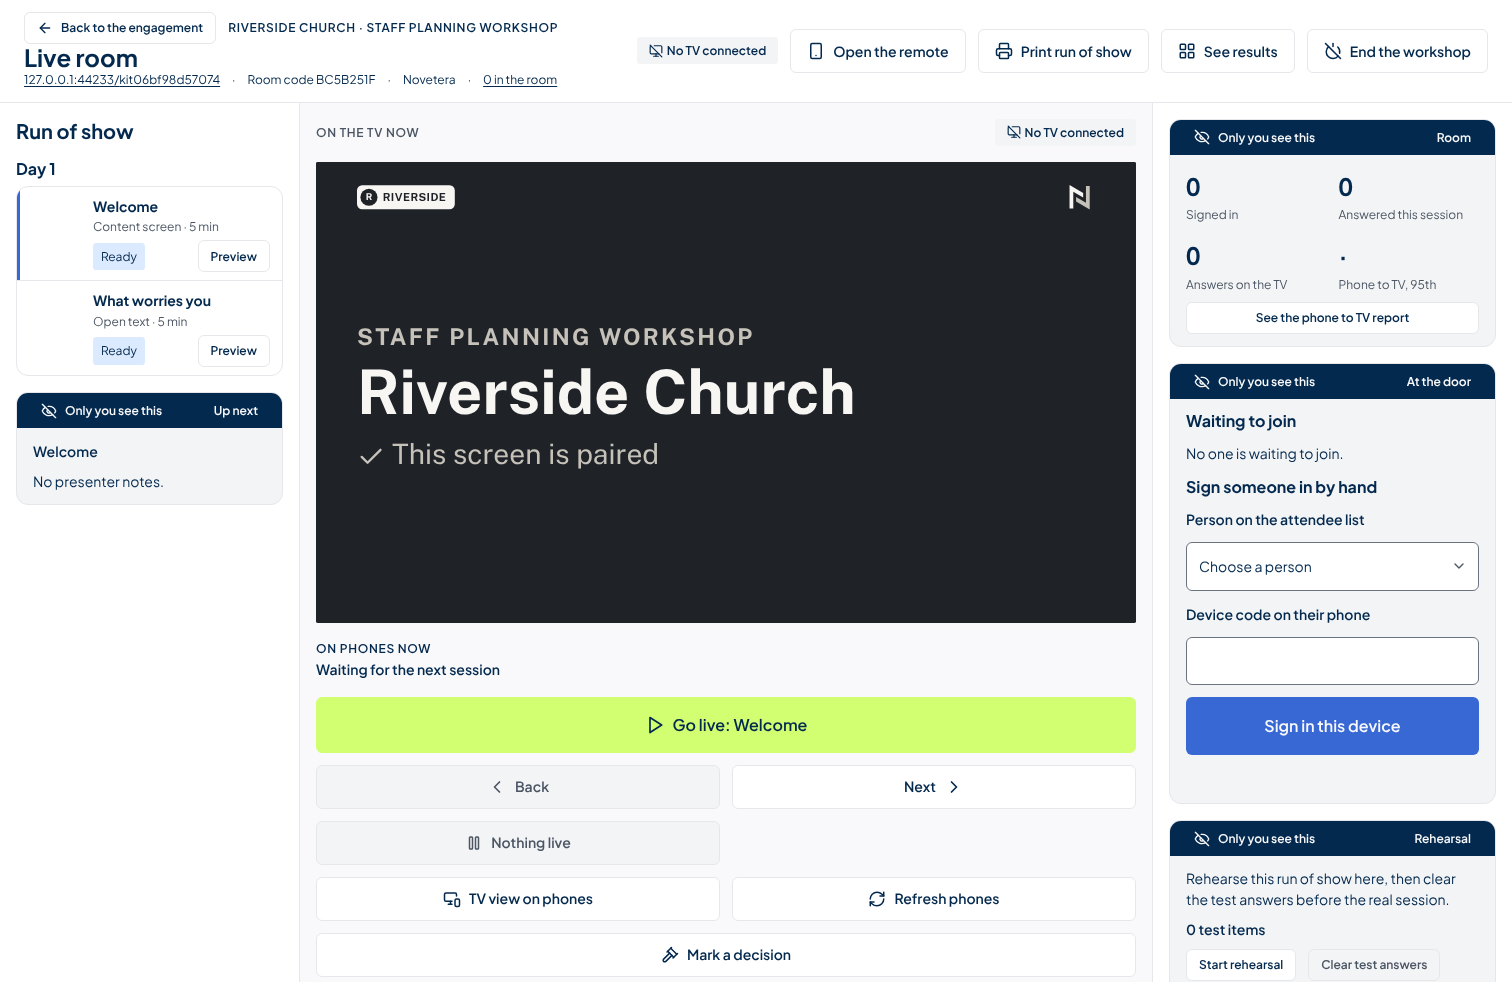
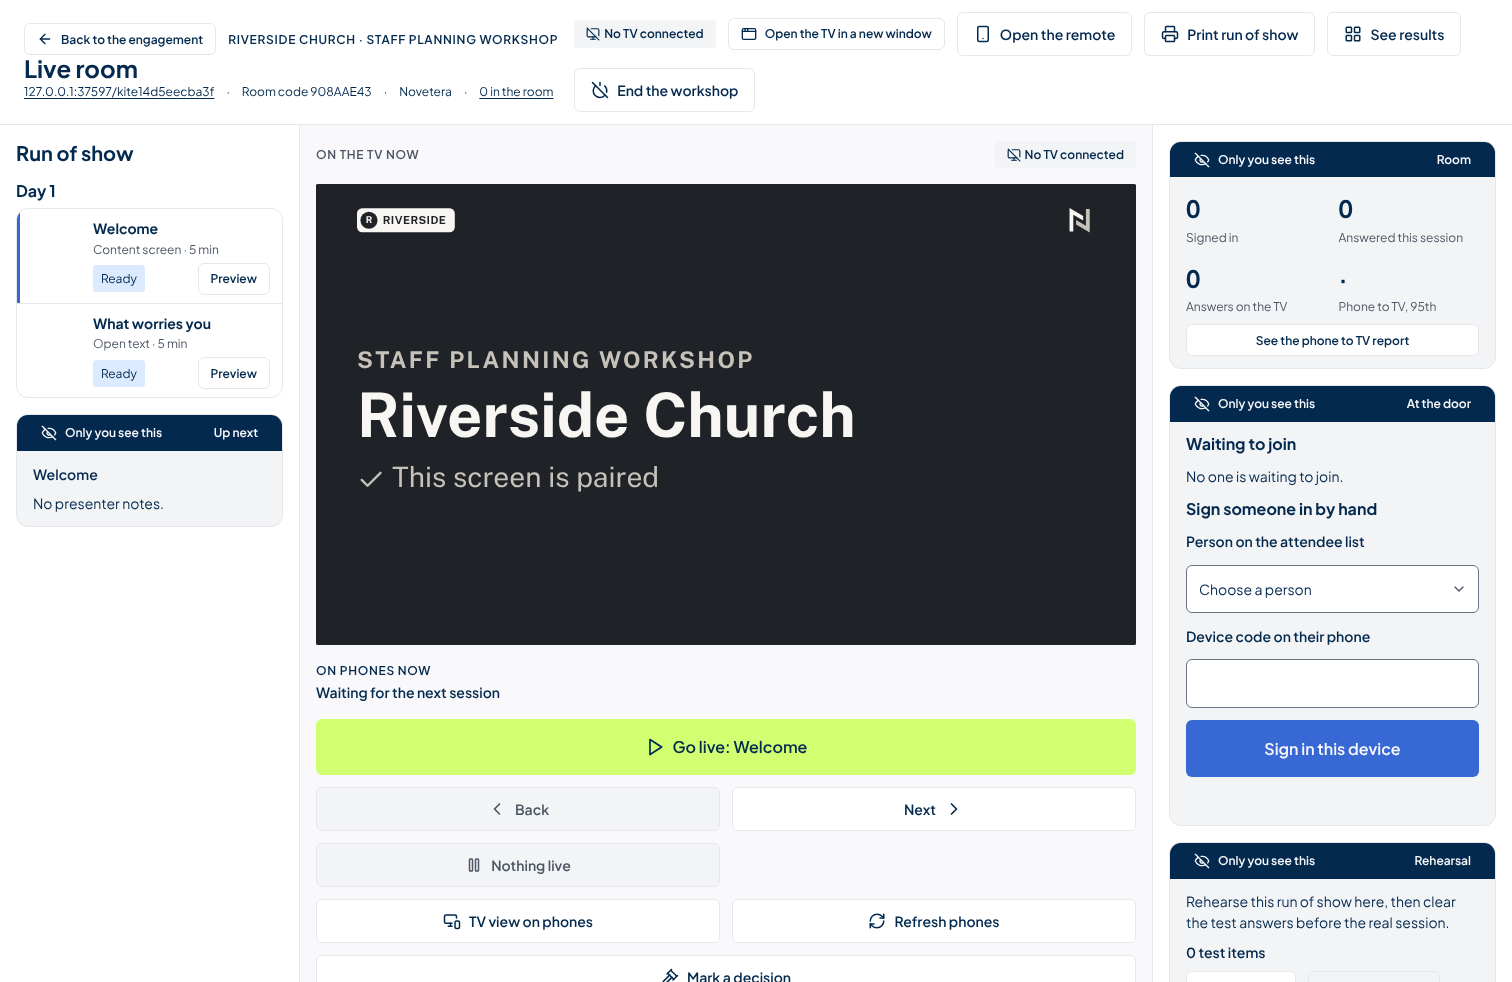
Live room header: keep the left block whole beside the new Open the TV button
Claude-Session: https://claude.ai/code/session_01JRnK1tmsyxsBGGDVbyTokv

diff --git a/app/globals.css b/app/globals.css
@@ -779,3 +779,5 @@ main:has(> .ph-app) > :not(.ph-app) { display: none; }
 .show-fields .show-group { margin-top: var(--space-2); padding-top: var(--space-3); border-top: 1px solid var(--cwl-app-border); font-size: var(--cwl-fs-app-label); font-weight: var(--fw-bold); }
 .show-fields .show-group:first-child { margin-top: 0; padding-top: 0; border-top: 0; }
 .show-print-sec th { text-align: left; font-weight: var(--fw-bold); background: var(--cwl-app-sunken); }
+.ctl-head > div:first-child { flex: none; max-width: 100%; }
+.ctl-identity > * { white-space: nowrap; }
